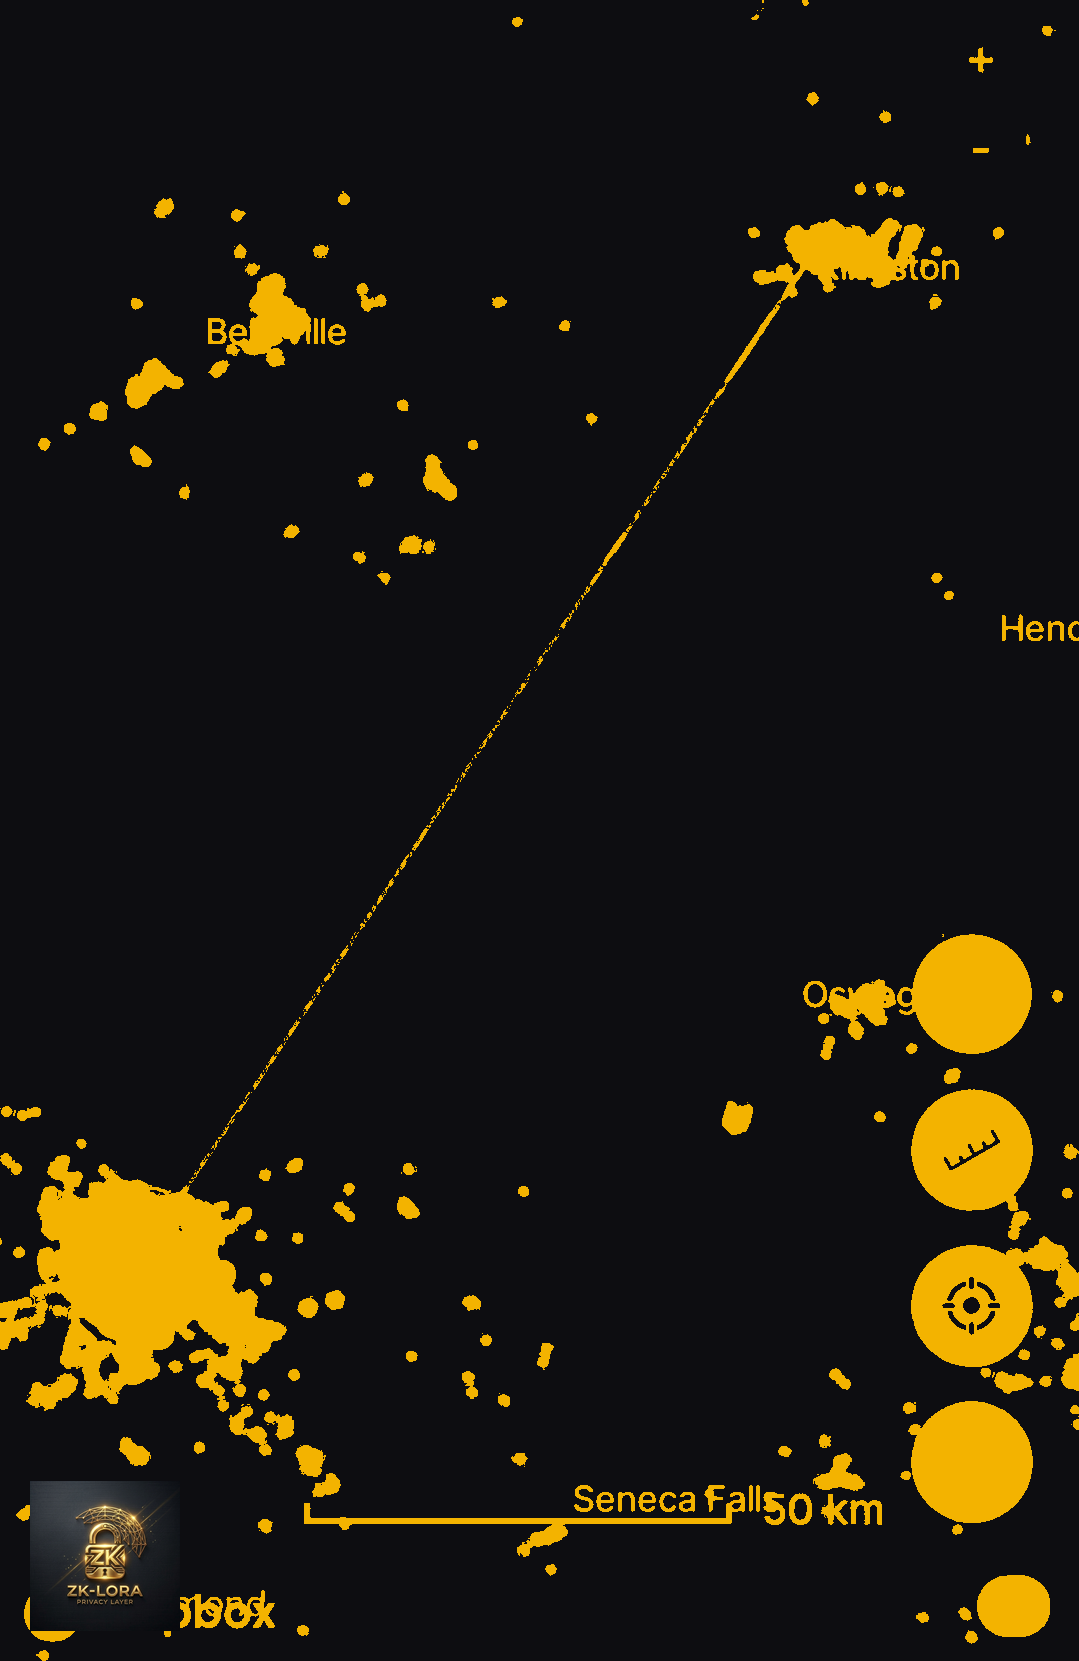
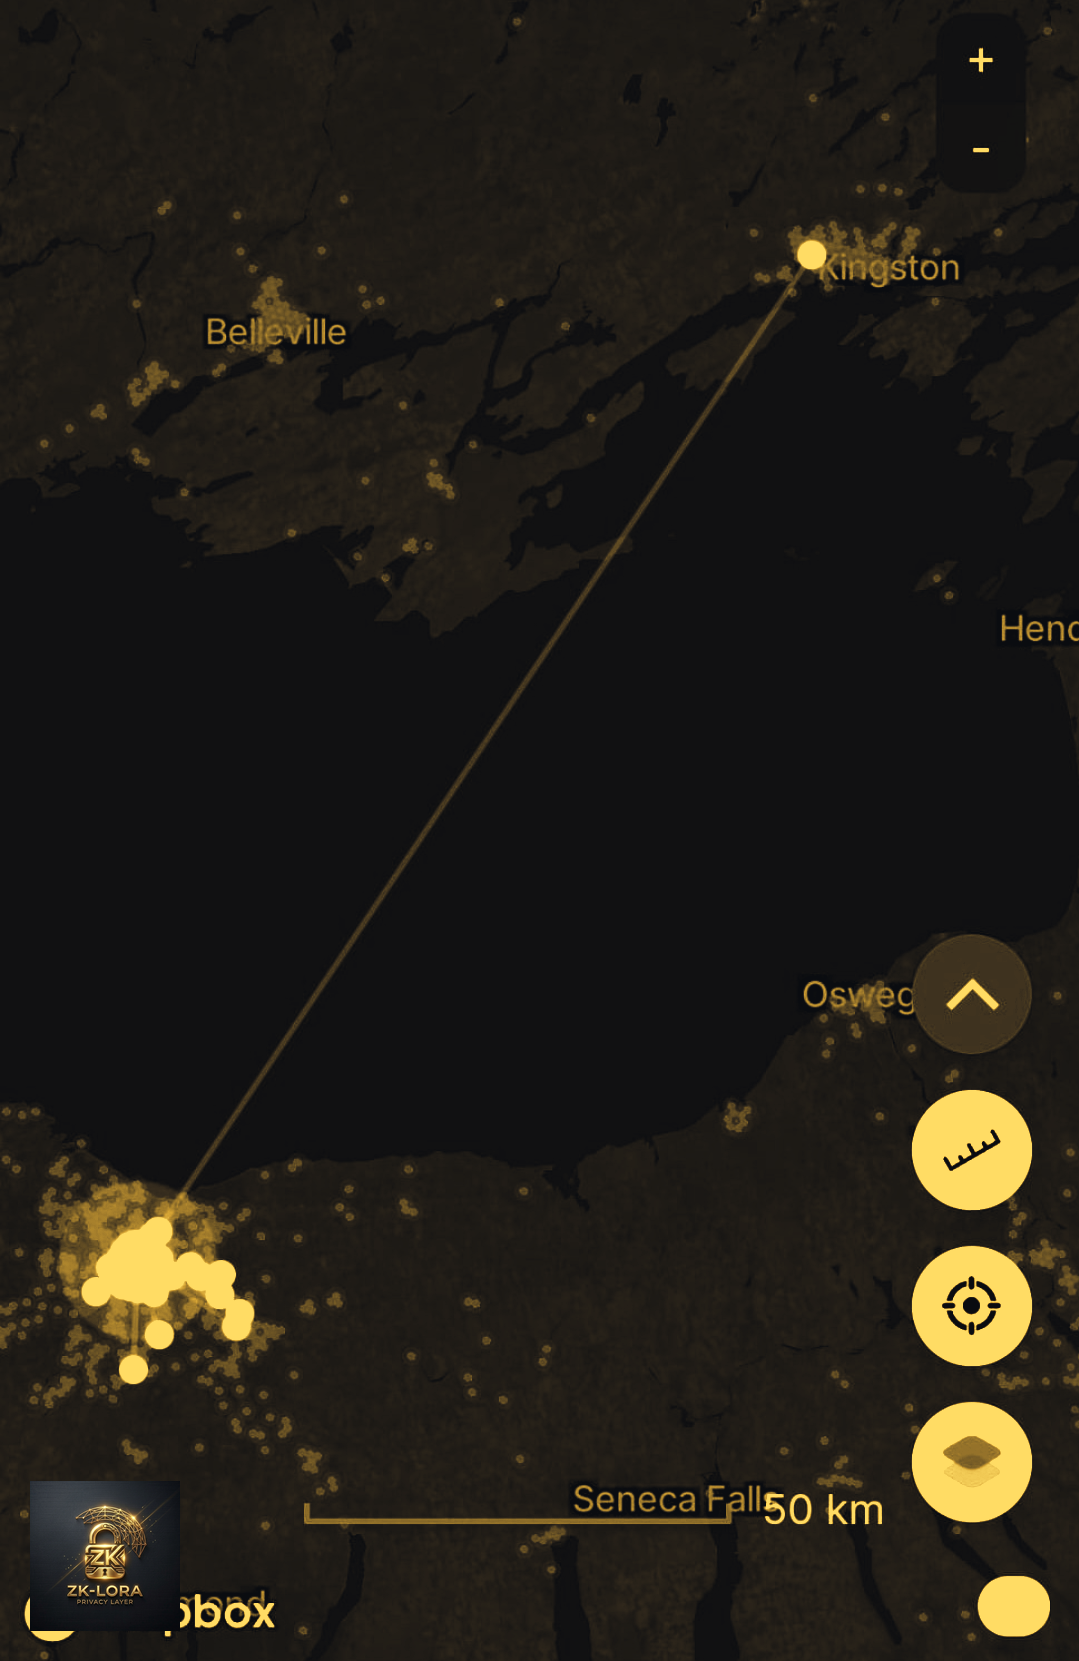
docs: improve gold map quality, show land features, and update comparison text

diff --git a/generate_pdf.py b/generate_pdf.py
@@ -966,14 +966,13 @@ def build_pdf(filename="ZK_LoRa_Whitepaper.pdf"):
         story.append(map_table)
         story.append(Spacer(1, 10))
         
-        # Comparison section: "This is you" vs "OR this could be you now"
-        logo_left = Image('zcash_logo.png', width=25, height=25) if os.path.exists('zcash_logo.png') else Spacer(1, 25)
-        logo_right = Image('zcash_eco_recycle_logo.png', width=35, height=35) if os.path.exists('zcash_eco_recycle_logo.png') else Spacer(1, 35)
+        # Comparison section: Custom description vs "OR this could be you now"
+        logo_right = Image('zcash_eco_recycle_logo.png', width=75, height=75) if os.path.exists('zcash_eco_recycle_logo.png') else Spacer(1, 75)
         
         comparison_data = [
-            [Paragraph("<font size=9 color='#94A3B8'><b>This is you...</b></font>", ParagraphStyle('ThisIsYou', alignment=1)), 
-             Paragraph("<font size=9 color='#F3B300'><b>OR this could be you now...</b></font>", ParagraphStyle('OrThisCouldBeYou', alignment=1))],
-            [logo_left, logo_right]
+            [Paragraph("<font size=9 color='#94A3B8'>This is the power of lorawan via a 13dbiomini antenna at 146ft height only consuming 5 watts of power in a rak miner.</font>", ParagraphStyle('LeftDesc', fontName='Helvetica-Oblique', fontSize=8.5, leading=12, alignment=0, textColor=colors.HexColor("#94A3B8"))), 
+             Paragraph("<font size=10 color='#F3B300'><b>OR this could be you now...</b></font>", ParagraphStyle('OrThisCouldBeYou', alignment=1))],
+            [Spacer(1, 1), logo_right]
         ]
         comparison_table = Table(comparison_data, colWidths=[240, 240])
         comparison_table.setStyle(TableStyle([